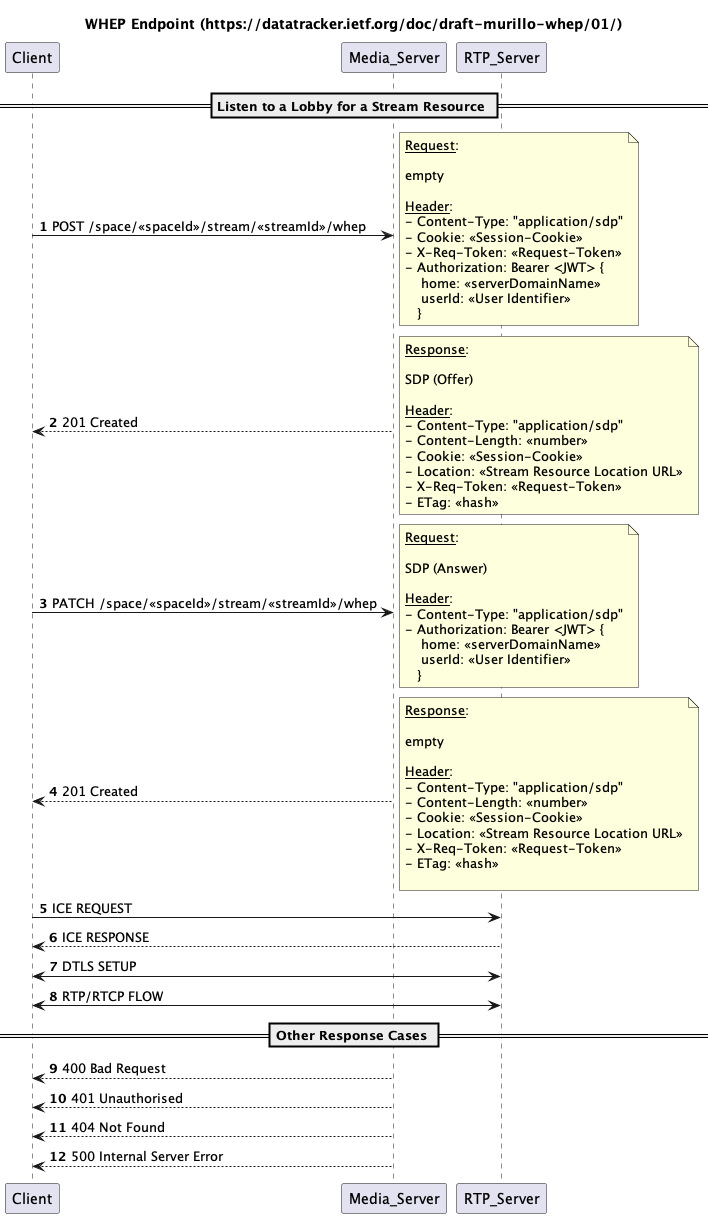
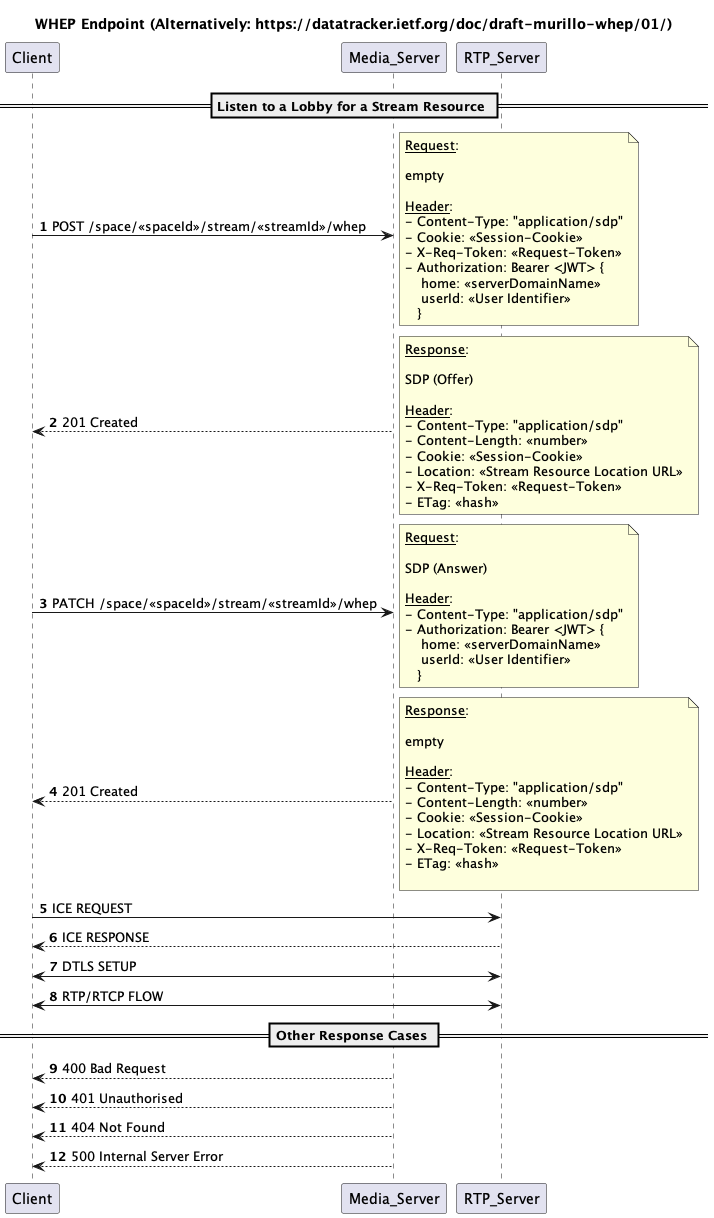
Listen lobby based on outdated whep alternative

Changed region(s): [[0.0616, 0.0, 0.9244, 0.0312]]

diff --git a/docs/whip-whep.md b/docs/whip-whep.md
@@ -31,6 +31,7 @@ The client initiates a POST request to request a WebRTC resource.
 Subsequently, the server creates a WebRTC endpoint and replies with an SDP offer.
 The client, in response, submits a PATCH request along with its own SDP answer.
 
+(Alternatively: https://datatracker.ietf.org/doc/draft-murillo-whep/01/)
 !["live-stream"](./uml/sequence/lobby-listen-whep.png)
 
 #### Signaling
@@ -51,4 +52,8 @@ This session cookie represents a Lobby session and is obtained when you create a
 
 !["live-stream"](./uml/sequence/lobby-stream-stop.png)
 
+## Static WHIP
+https://datatracker.ietf.org/doc/draft-ietf-wish-whip/
 
+## Static WHEP
+https://datatracker.ietf.org/doc/draft-murillo-whep/
